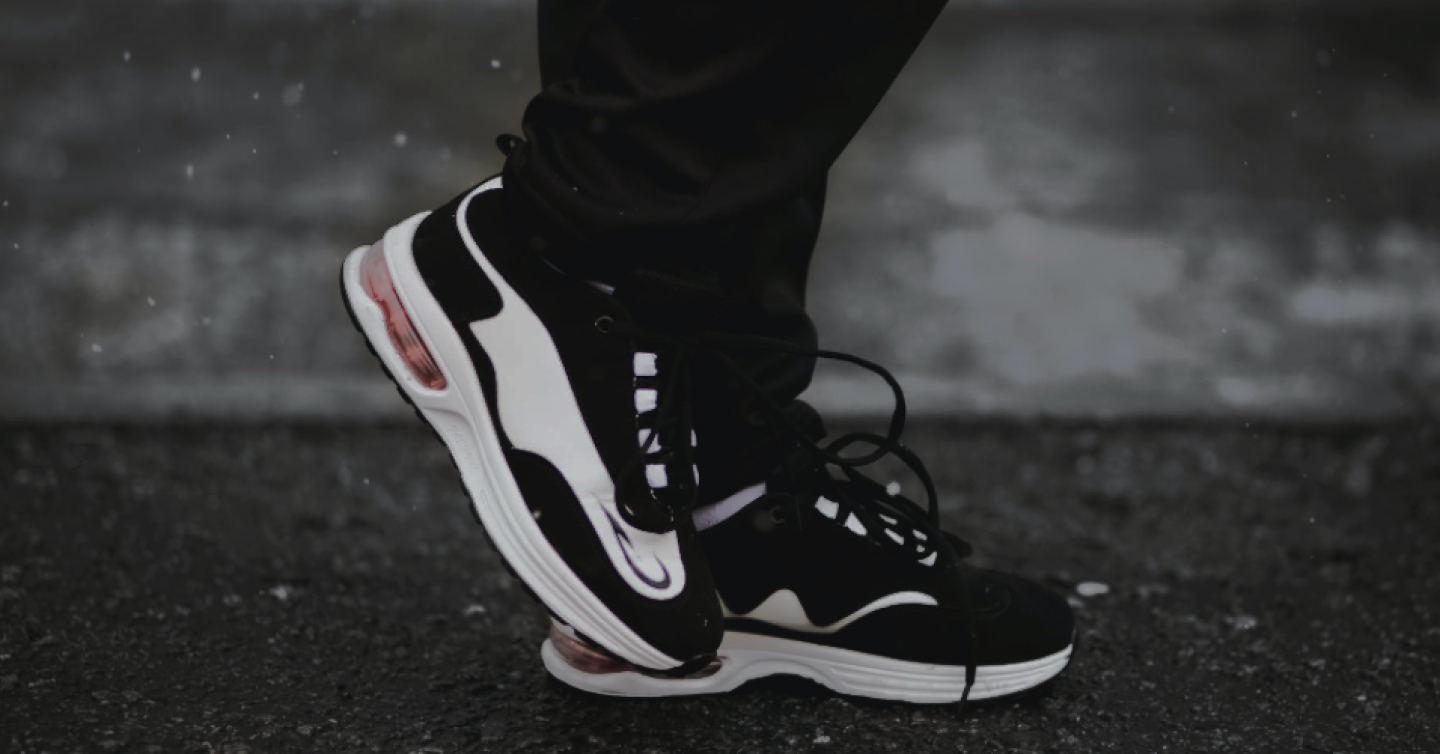
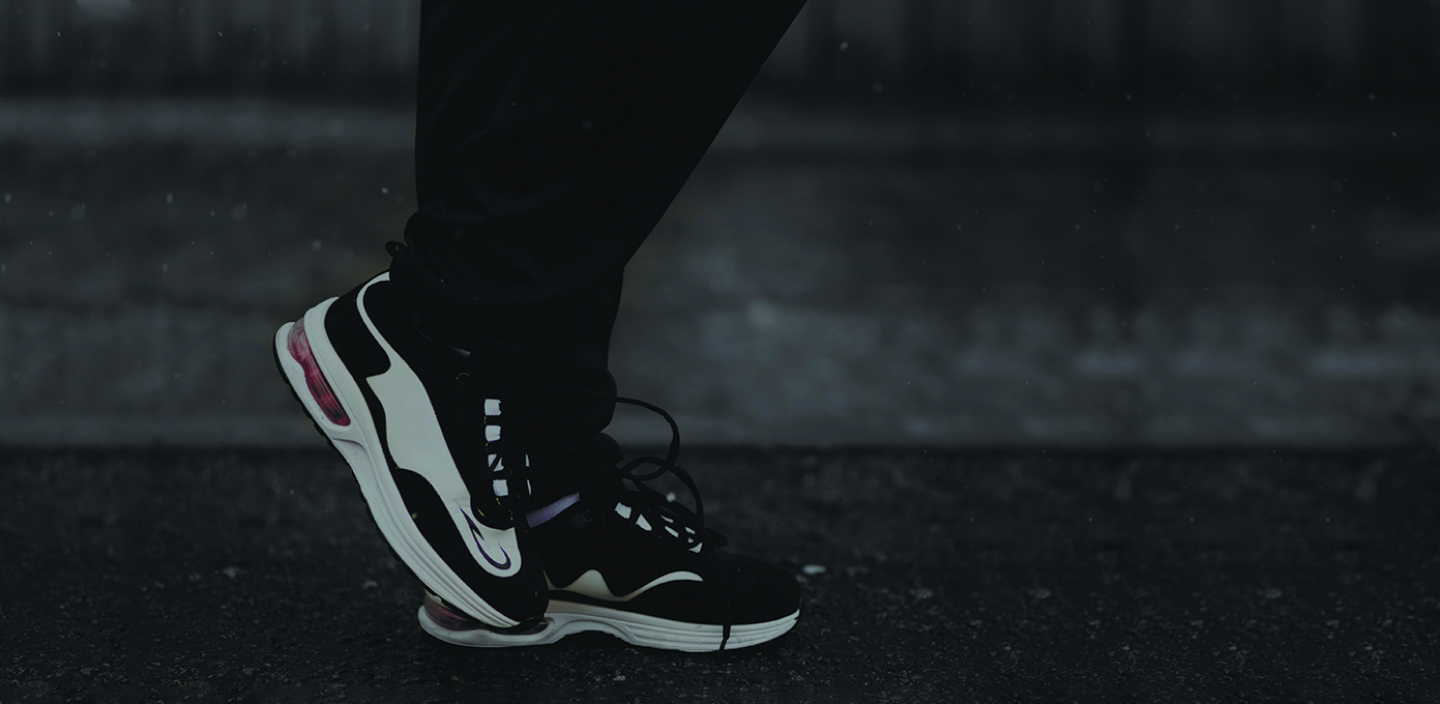
Hero slider adapted

diff --git a/src/components/home-page/HeroSlider.vue b/src/components/home-page/HeroSlider.vue
@@ -99,7 +99,7 @@ export default {
 .swiper {
   @include slider_fix;
   position: relative;
-  justify-content: space-evenly;
+  //justify-content: space-evenly;
   margin-bottom: adaptive_fz(60px, 20px);
 
   @media (min-width: 700px) {
@@ -109,19 +109,19 @@ export default {
 
 .swiper__button {
   position: absolute;
-  top: calc(50% - 0.5 * Min(52.5px, Max(30px, 0.75 * 5vw)));
+  top: calc(50% - 0.5 * 30px);
   z-index: 5;
   display: block;
-  width: 5vw;
-  min-width: 40px;
-  max-width: 70px;
-  height: calc(0.75 * 5vw);
-  min-height: 30px;
-  max-height: 52.5px;
+  width: 40px;
+  height: 30px;
   border: none;
   background-color: rgba(255, 255, 255, 0.3);
   font-size: 0;
   cursor: pointer;
+
+  @media screen and (max-width: 767px) {
+    display: none;
+  }
 
   &:before {
     content: '';
@@ -148,12 +148,13 @@ export default {
 }
 
 .swiper__item {
-  height: calc(100vh - 161px);
+  height: calc(100vh - ((2.5 * adaptive_fz(11px, 8px)) + (4 * adaptive_fz(14px, 9px) + 0.225 * Max(120px, 8.5vw))));
   display: flex;
   justify-content: center;
-  align-items: center;
+  align-items: flex-end;
+  padding-bottom: calc(0.5 *(100vh - ((2.5 * adaptive_fz(11px, 8px)) + (4 * adaptive_fz(14px, 9px) + 0.225 * Max(120px, 8.5vw)))));
   font-family: 'PT Sans Caption', sans-serif;
-  font-size: adaptive_fz(30px, 10px);
+  font-size: adaptive_fz(15px, 10px);
   font-weight: 700;
   color: $contrast_color;
   background-position: center;
@@ -163,17 +164,18 @@ export default {
 
 .swiper__item-text {
   text-align: center;
+  text-transform: uppercase;
 }
 
 .swiper__item-logo {
-  margin-bottom: 3.25em;
+  margin-bottom: 2.5em;
   display: block;
   width: 19.25em;
 }
 
 .swiper__pagination {
   position: absolute;
-  bottom: 7px;
+  bottom: 10px;
   left: calc(50% - 0.5 * 29px);
   display: flex;
   font-size: 0;

diff --git a/src/components/icons/IconLogo.vue b/src/components/icons/IconLogo.vue
@@ -1,9 +1,7 @@
 <template>
   <svg
     fill="none"
-    height="41"
     viewBox="0 0 182 41"
-    width="182"
     xmlns="http://www.w3.org/2000/svg"
   >
     <path clip-rule="evenodd" d="M0 0.010754V40.5026H19.2566C19.4975 40.5026 19.7524 40.5043 20.0189 40.5061C23 40.5258 27.4349 40.5551 30.0506 38.3442C32.6044 36.1858 32.6044 33.682 32.6044 27.5521C32.6044 21.7676 30.396 19.6092 24.3514 18.6595C26.2511 18.4004 29.9643 17.7097 31.0005 14.6016C31.8647 12.0095 31.3171 8.3854 31.0005 6.91768C30.396 4.81682 27.581 0.546041 21.1563 0.269764C14.7317 -0.00651335 4.37519 -0.0180249 0 0.010754ZM13.9891 7.00401V15.8967H16.1479C16.8963 15.8679 18.393 15.4132 18.393 13.8246V9.50777C18.393 8.12641 17.8749 6.83136 13.9891 7.00401ZM13.9891 22.2188V33.423H16.1902C17.3568 33.423 18.4794 33.0935 18.4794 31.0919V25.3734C18.4794 23.2353 18.393 22.0266 13.9891 22.2188Z" fill-rule="evenodd" />
